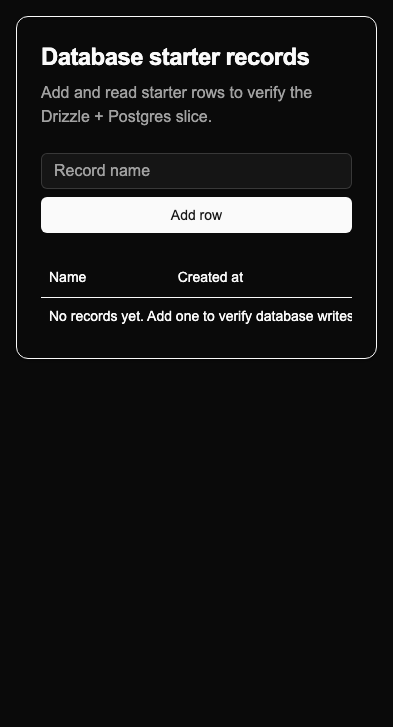
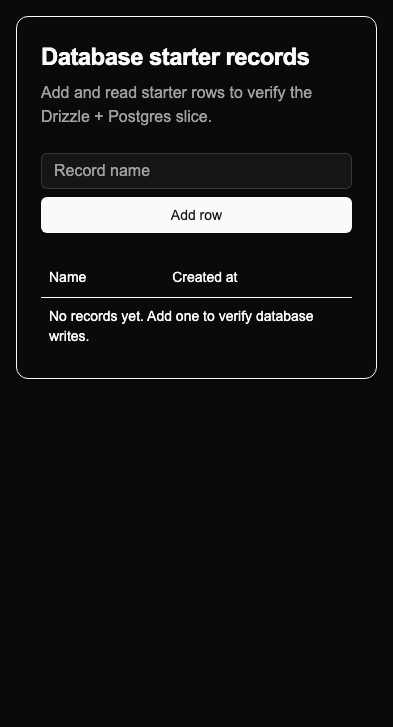
fix(database-starter): wrap overflowing empty state text

diff --git a/src/features/database-starter/components/database-starter-view.tsx b/src/features/database-starter/components/database-starter-view.tsx
@@ -90,14 +90,20 @@ export function DatabaseStarterView({
           <TableBody>
             {records.length === 0 ? (
               <TableRow>
-                <TableCell colSpan={2}>
+                <TableCell
+                  className="whitespace-normal break-words"
+                  colSpan={2}
+                >
+                  {/* issue #60: replace with a reusable TruncatedText component. */}
                   No records yet. Add one to verify database writes.
                 </TableCell>
               </TableRow>
             ) : (
               records.map((record) => (
                 <TableRow key={record.id}>
-                  <TableCell>{record.name}</TableCell>
+                  <TableCell className="whitespace-normal break-words">
+                    {record.name}
+                  </TableCell>
                   <TableCell>
                     {formatCreatedAtLabel(record.createdAt)}
                   </TableCell>